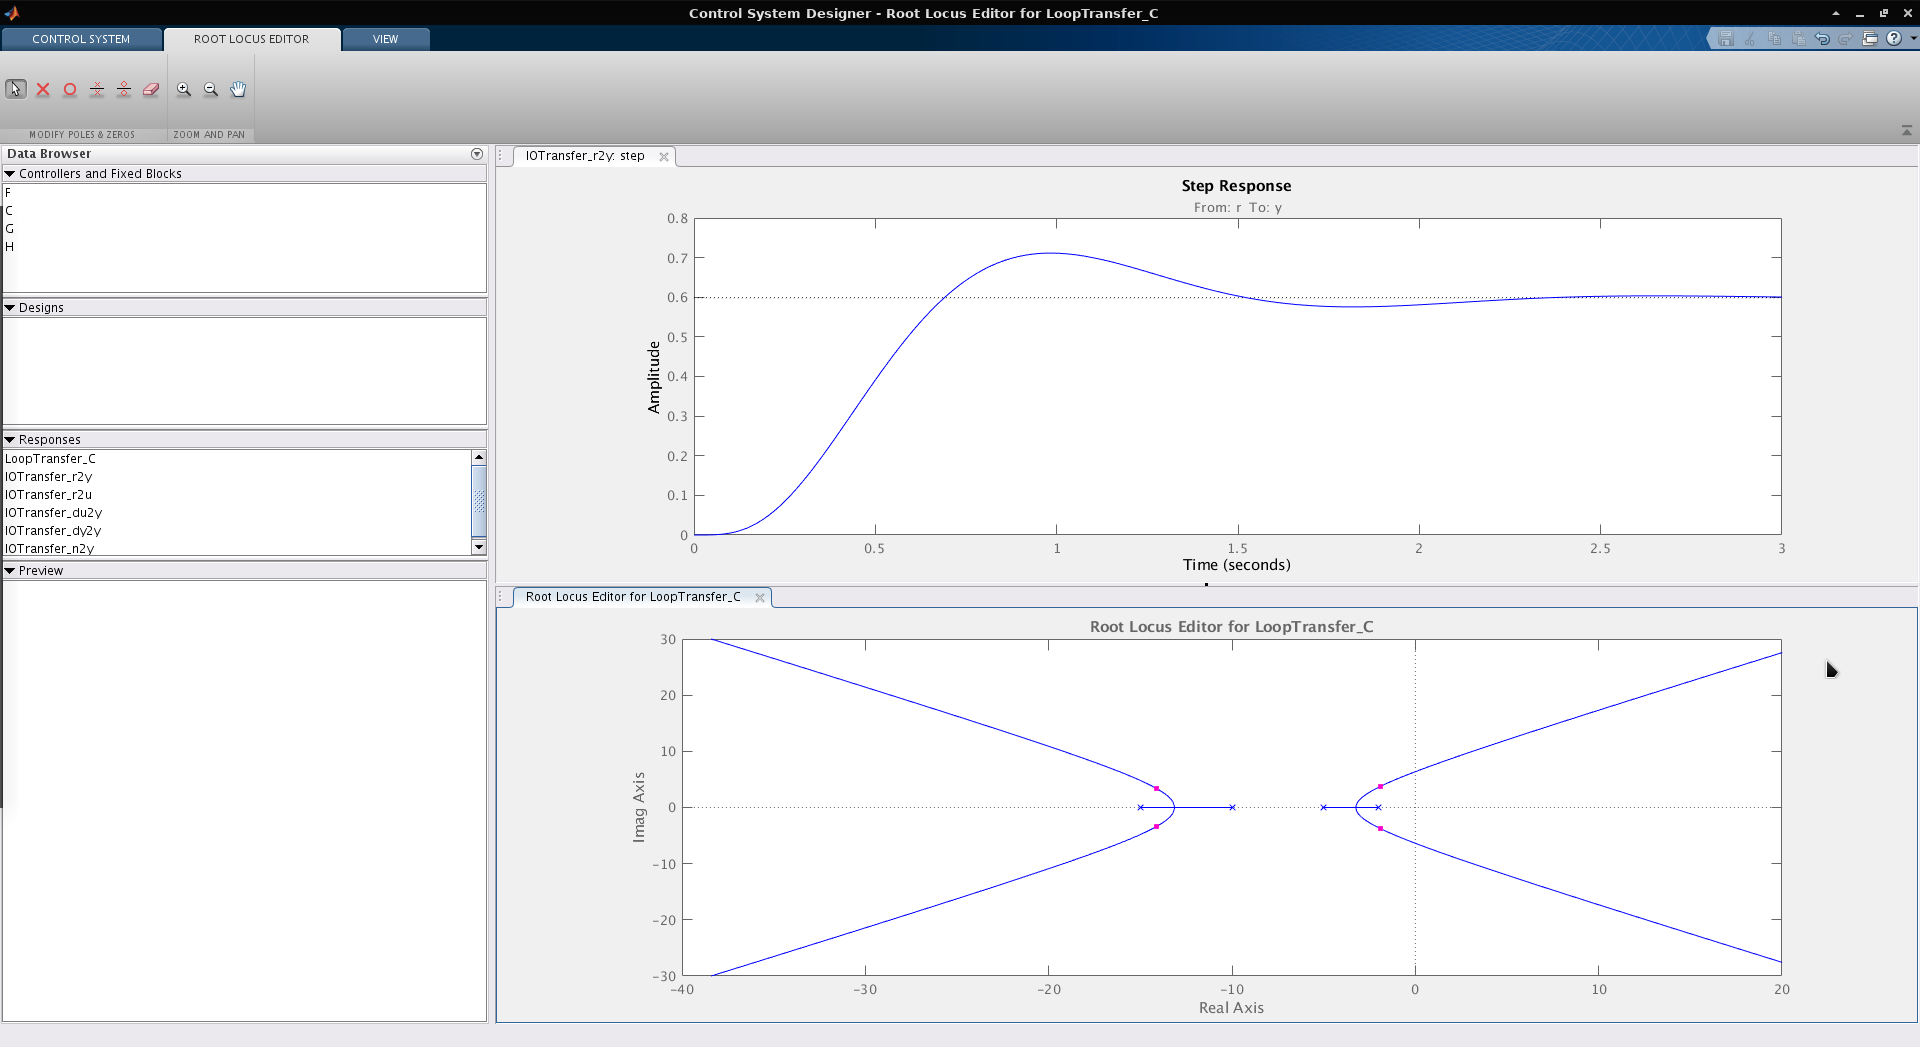
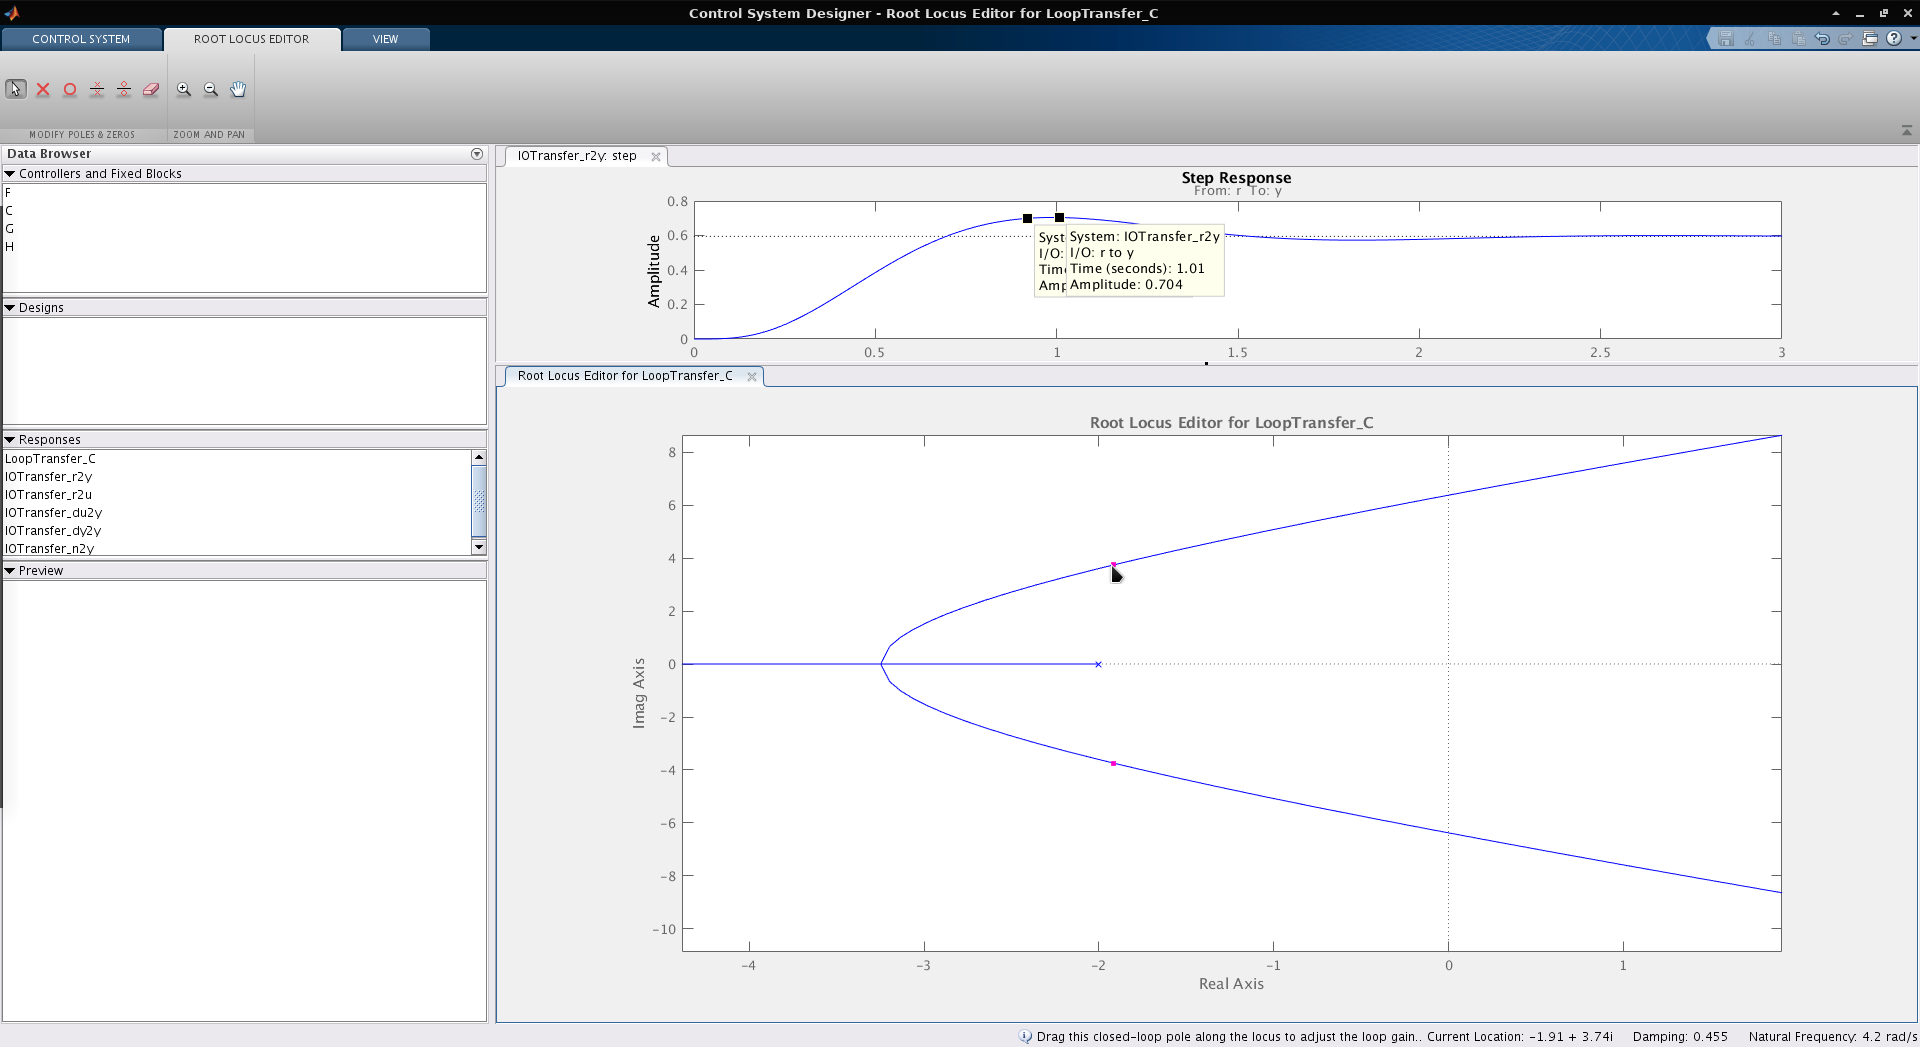
Having MAJOR troubles

diff --git a/hw8/hw8.m b/hw8/hw8.m
@@ -2,8 +2,9 @@
 
 G1 = zpk([],[-2 -5 -10 -15],[200]);
 rlocus(G1);
-X1a = evalfr(G1, -1.9 + 3.88*j);
+X1a = evalfr(G1, -1.9100 + 3.7400i)
 k1a = 1/X1a
 
-Gcl1a = minreal(G1*k1a / (1+G1*k1a));
-zpk(Gcl1a)
+Gcl1a = minreal(G1*k1a / (1+G1*k1a))
+
+Gcl1aFinal = zpk([],[-16.9 .5461 (7.826 + 5.207j) (7.826-5.207j)],[-2315.1])
